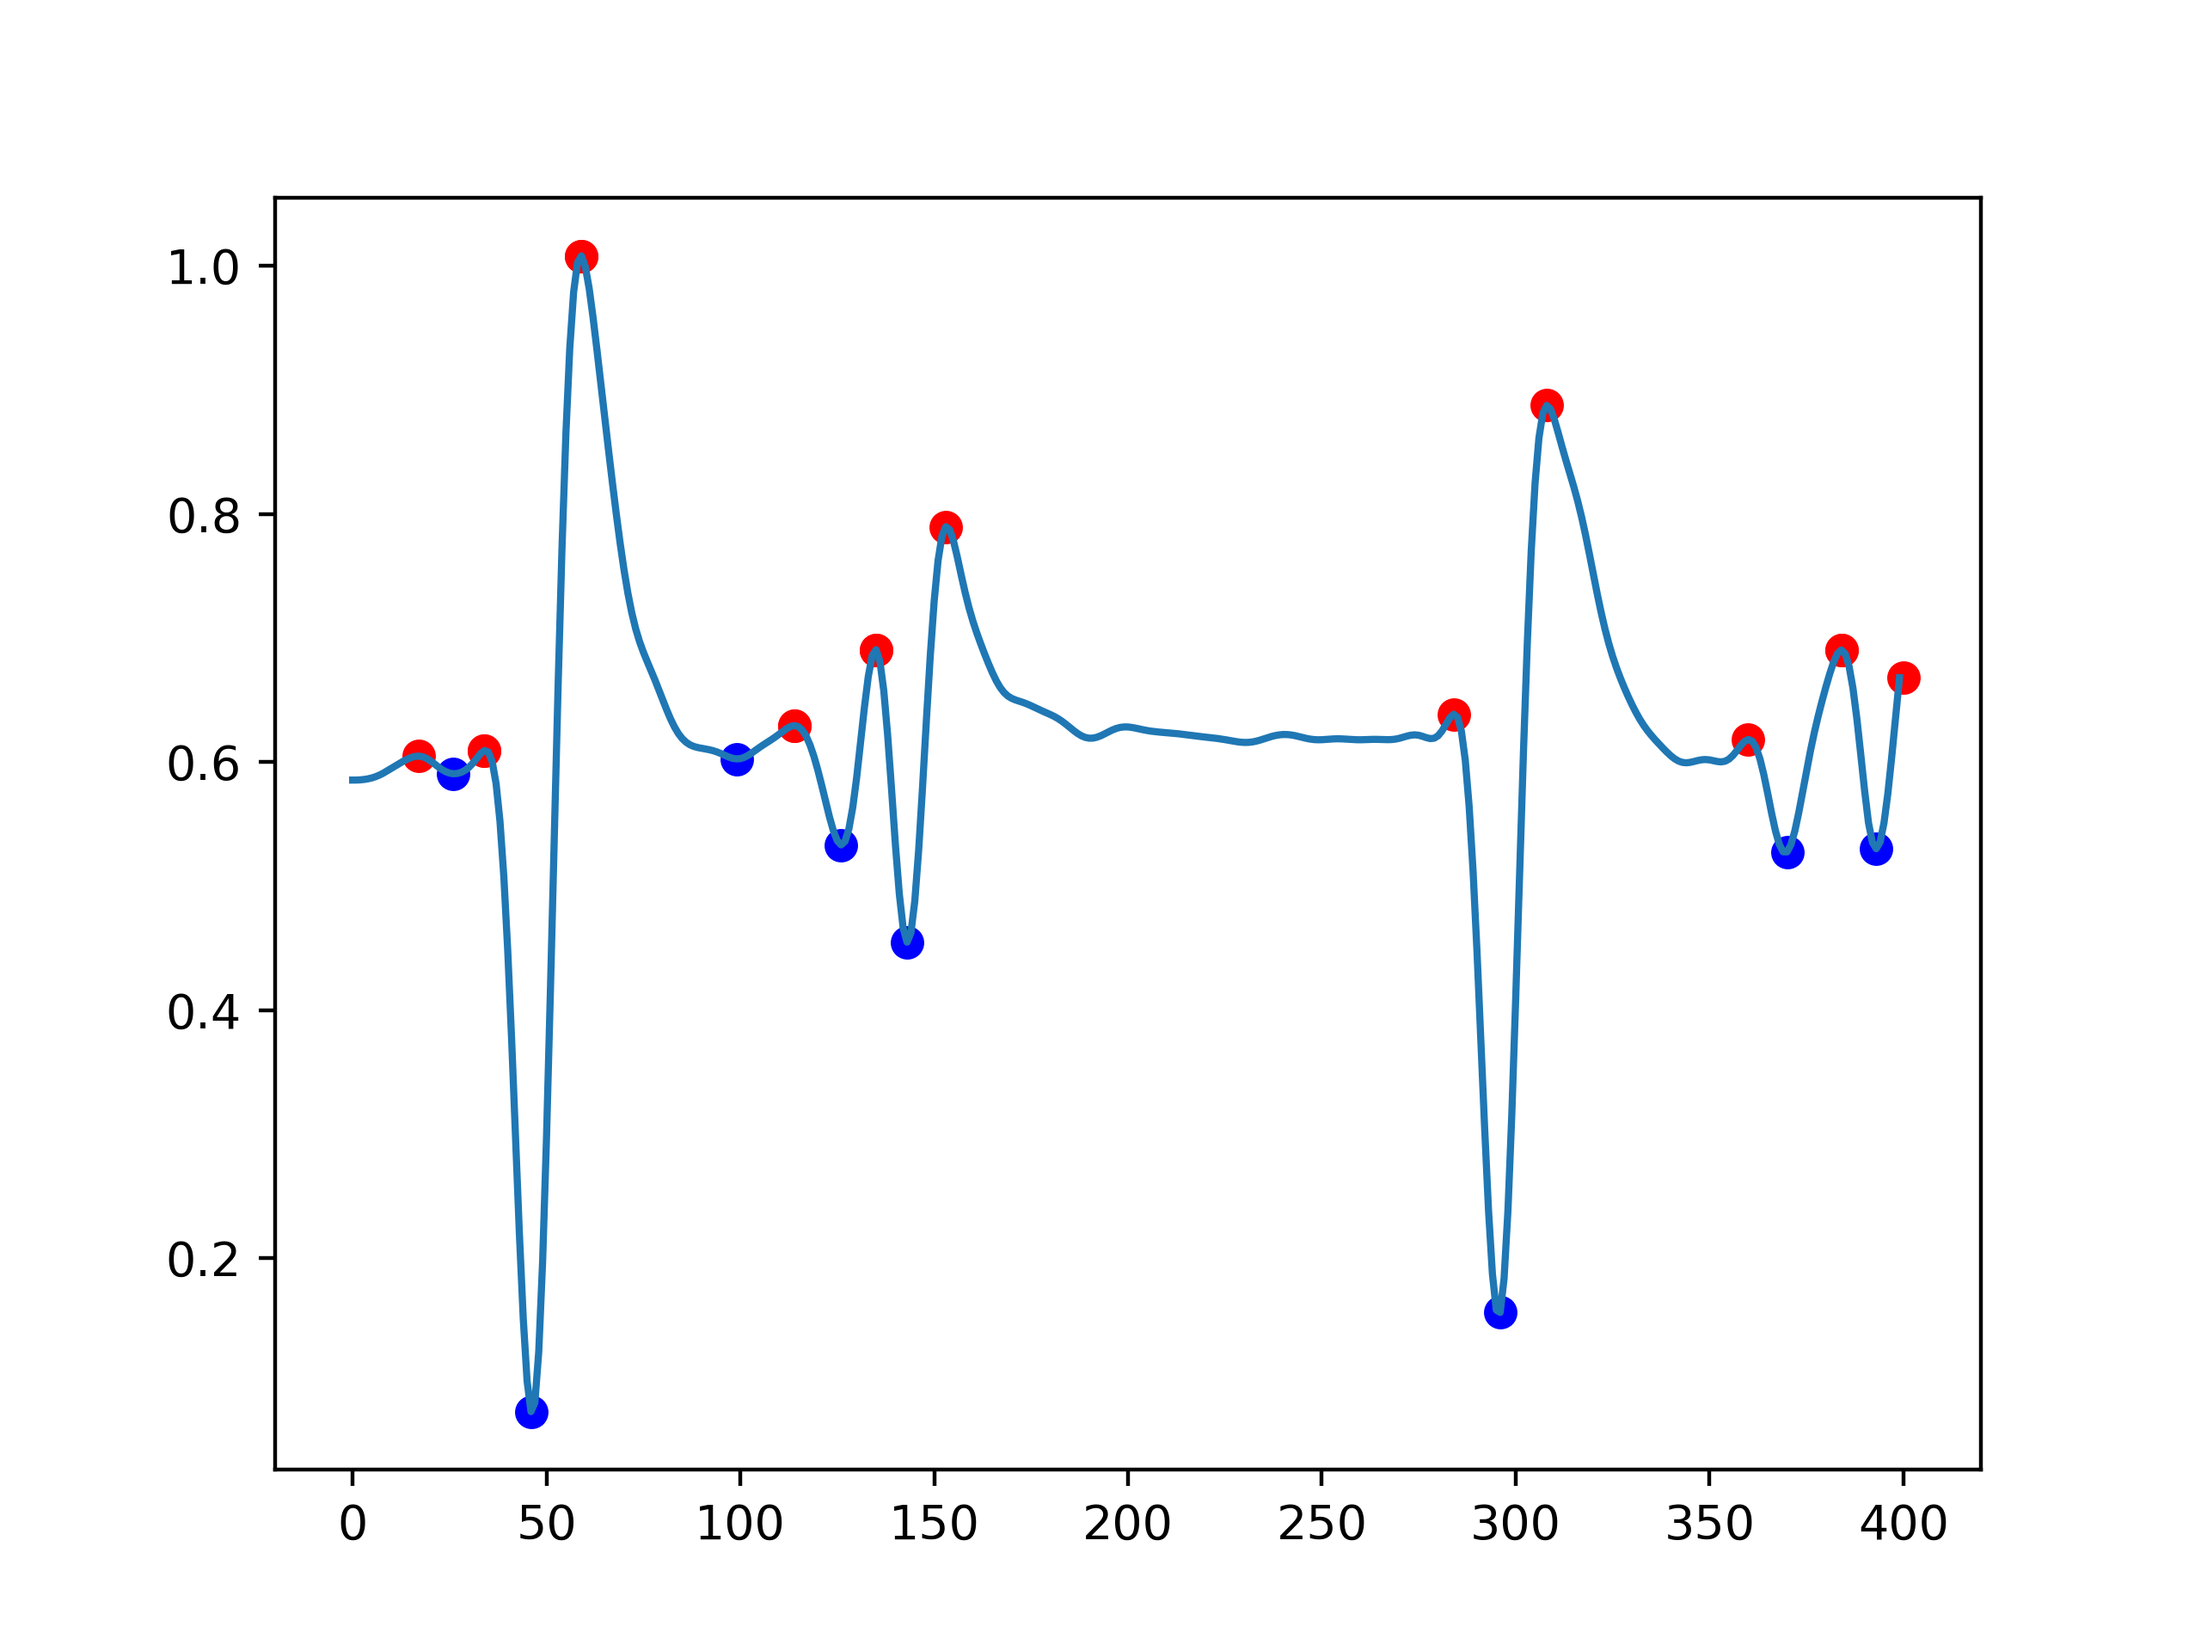
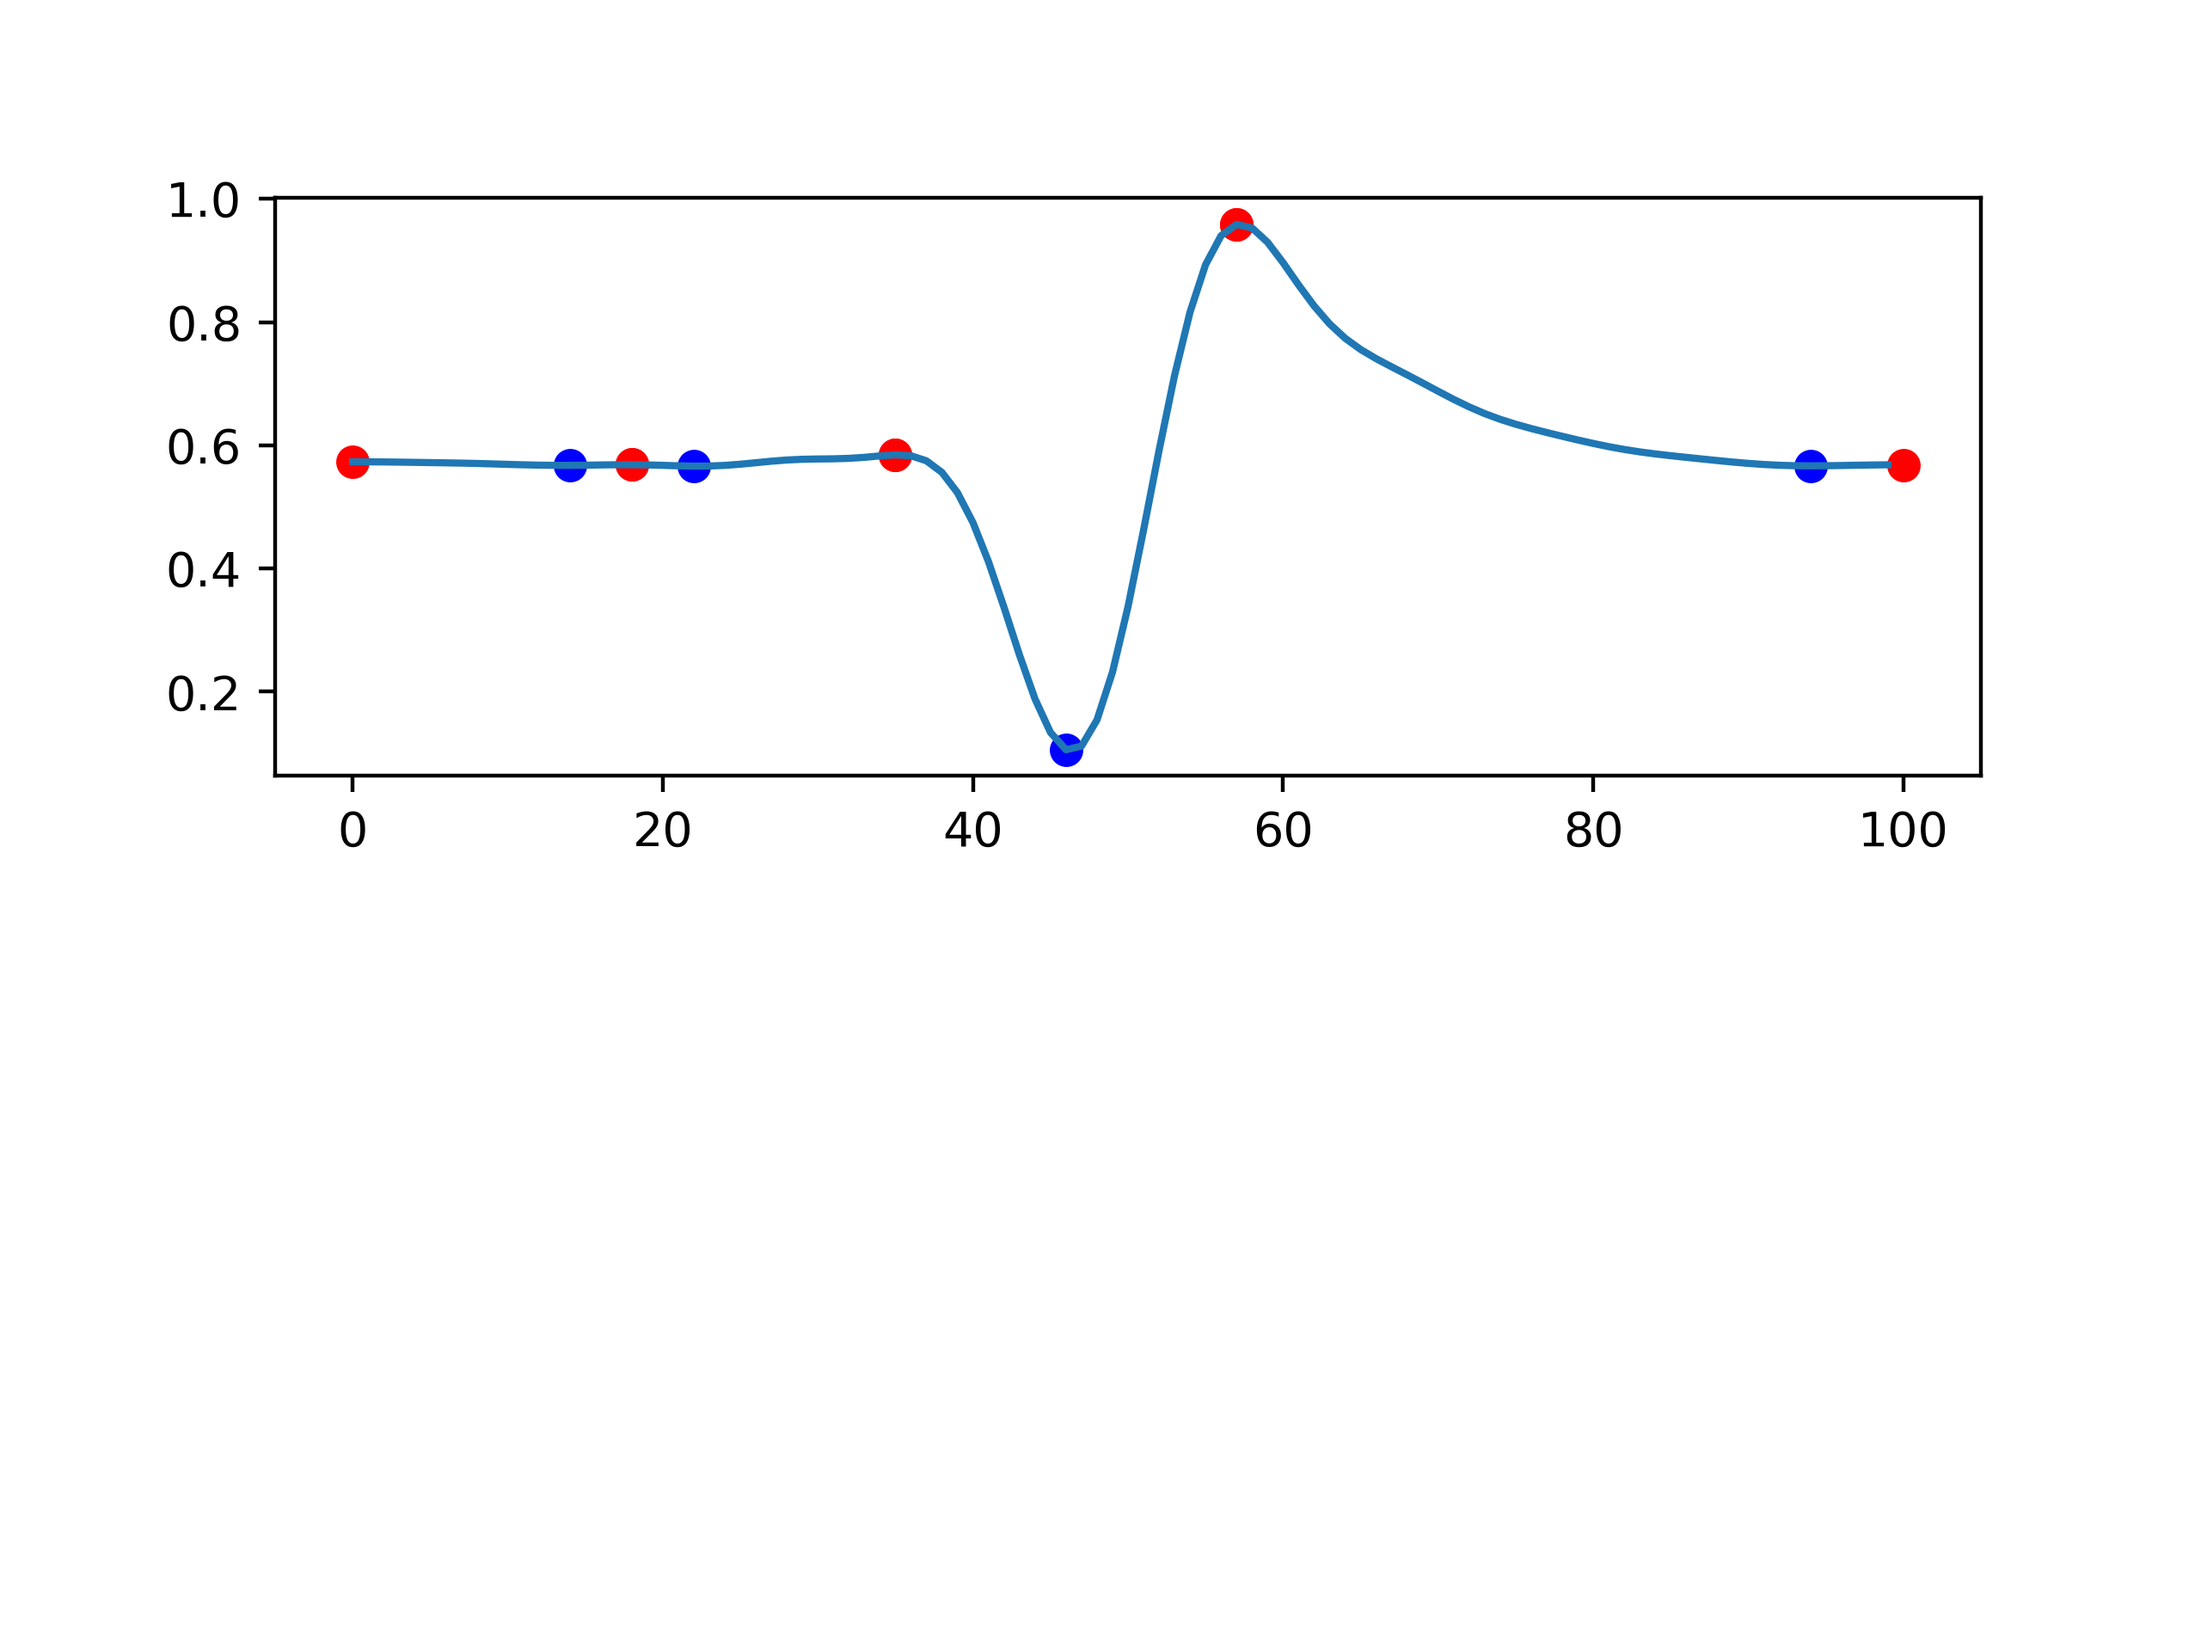
split peaks by slices

diff --git a/data_proccesing/find_peaks.py b/data_proccesing/find_peaks.py
@@ -31,22 +31,32 @@ def find_peaks(data):
     extrema_arr.sort(key=lambda peak: peak.x)
 
     if extrema_arr[0].clazz == "min":
-        extrema_arr.insert(0, Extrema(0, gras_data[0], "max"))
+        extrema_arr.insert(0, Extrema(0, data[0], "max"))
 
     if extrema_arr[-1].clazz == "min":
-        extrema_arr.append(Extrema(len(gras_data), gras_data[-1], "max"))
+        extrema_arr.append(Extrema(len(data), data[-1], "max"))
 
     peaks_arr = []
 
     for i, extrema in enumerate(extrema_arr):
         if extrema.clazz == "min":
-            peaks_arr.append(Peak(extrema_arr[i - 1], extrema, extrema_arr[i + 1]))
+            peak = Peak(extrema_arr[i - 1], extrema, extrema_arr[i + 1])
+            peaks_arr.append(peak)
 
     return np.array(peaks_arr)
 
 
-def filter_peaks(peaks_arr):
-    return np.where([item.is_good() for item in peaks_arr], peaks_arr)
+def filter_peaks(peaks_arr, threshold):
+
+    arr = []
+
+    for peak in peaks_arr:
+        if peak.is_good(threshold):
+            arr.append(peak)
+
+    return arr
+
+    # return np.where([item.is_good(threshold) for item in peaks_arr], peaks_arr)
 
 
 def plot_peaks(data, peaks_arr, filename, plot_boxes=False):
@@ -79,16 +89,42 @@ def plot_peaks(data, peaks_arr, filename, plot_boxes=False):
                 plt.plot([peak.left_min_extrema.x, peak.right_min_extrema.x],
                          [peak.max_extrema.y - 0.1, peak.max_extrema.y - 0.1], color="black")
 
-    plt.savefig(filename, dpi=400)
-    plt.show()
+def split_peaks_by_slices(peaks_arr, slice_len_in_steps, count_slices):
+    splitted_arr = [[] for _ in range(count_slices)]
+
+    i = 0
+    current_slice = slice_len_in_steps
+    current_num_slice = 0
+    while current_num_slice < count_slices:
+        if peaks_arr[i].left_min_extrema.x < current_slice:
+            splitted_arr[current_num_slice].append(peaks_arr[i])
+            i += 1
+        else:
+            current_slice += slice_len_in_steps
+            current_num_slice += 1
+
+    return splitted_arr
 
 
 if __name__ == "__main__":
-    # gras_data = smooth(read_data("../gras_data/0_MN_E_left.dat")[:4400])
-    # gras_data = norma(smooth(read_data("../gras_data/vm.txt")[:1500]))
-    gras_data = smooth(norma(read_hdf5("../bio_data/bio_E_PLT_21cms_40Hz_2pedal_0.1step.hdf5")[0][:400]))
-    # gras_data = read_hdf5("../bio_data/bio_E_PLT_21cms_40Hz_2pedal_0.1step.hdf5")[0][:400]
-    peaks = find_peaks(gras_data)
-    peaks = filter_peaks(peaks)
+    smoothed_gras_data = smooth(norma(read_hdf5("../bio_data/bio_E_PLT_21cms_40Hz_2pedal_0.1step.hdf5")[0][530:780]))
+    peaks = find_peaks(smoothed_gras_data)
+    peaks = filter_peaks(peaks, 0.01)
 
-    plot_peaks(gras_data, peaks, "filtered_peaks.png")
+    # splitted = split_peaks_by_slices(peaks, 25 * 4, 6)
+
+    plt.subplot(311)
+    plt.title("a")
+    gras_data = norma(read_hdf5("../bio_data/bio_E_PLT_21cms_40Hz_2pedal_0.1step.hdf5")[0][530:780])
+
+    plot_peaks(gras_data, find_peaks(gras_data), "all_peaks.png")
+    plt.subplot(312)
+    plt.title("b")
+    plot_peaks(smoothed_gras_data, peaks, "all_peaks.png")
+
+    plt.subplot(313)
+    plt.title("c")
+    plot_peaks(smoothed_gras_data, peaks, "all_peaks.png", True)
+
+    plt.savefig("comaring.png", dpi=400)
+    plt.show()

diff --git a/data_proccesing/peak.py b/data_proccesing/peak.py
@@ -3,9 +3,13 @@ class Peak:
         self.left_min_extrema = left_min_extrema
         self.max_extrema = max_extrema
         self.right_min_extrema = right_min_extrema
+        self.ampl = max(abs(left_min_extrema.y - max_extrema.y), abs(right_min_extrema.y - max_extrema.y))
+        self.time_of = max_extrema.x
+        self.duration = right_min_extrema.x - left_min_extrema.x
 
     def __repr__(self):
-        return f"({self.left_min_extrema.x}, {self.left_min_extrema.y}) ({self.max_extrema.x}, {self.max_extrema.y}) ({self.right_min_extrema.x}, {self.right_min_extrema.y})"
+        return f"{self.left_min_extrema}, {self.max_extrema}, {self.right_min_extrema}"
 
-    def is_good(self, threshold_y, threshold_x):
-        return abs(self.left_min_extrema.y - self.max_extrema.y) > threshold_y and abs(self.right_min_extrema.y - self.max_extrema.y) > threshold_y
+    def is_good(self, threshold_y):
+        return abs(self.left_min_extrema.y - self.max_extrema.y) > threshold_y \
+               and abs(self.right_min_extrema.y - self.max_extrema.y) > threshold_y
